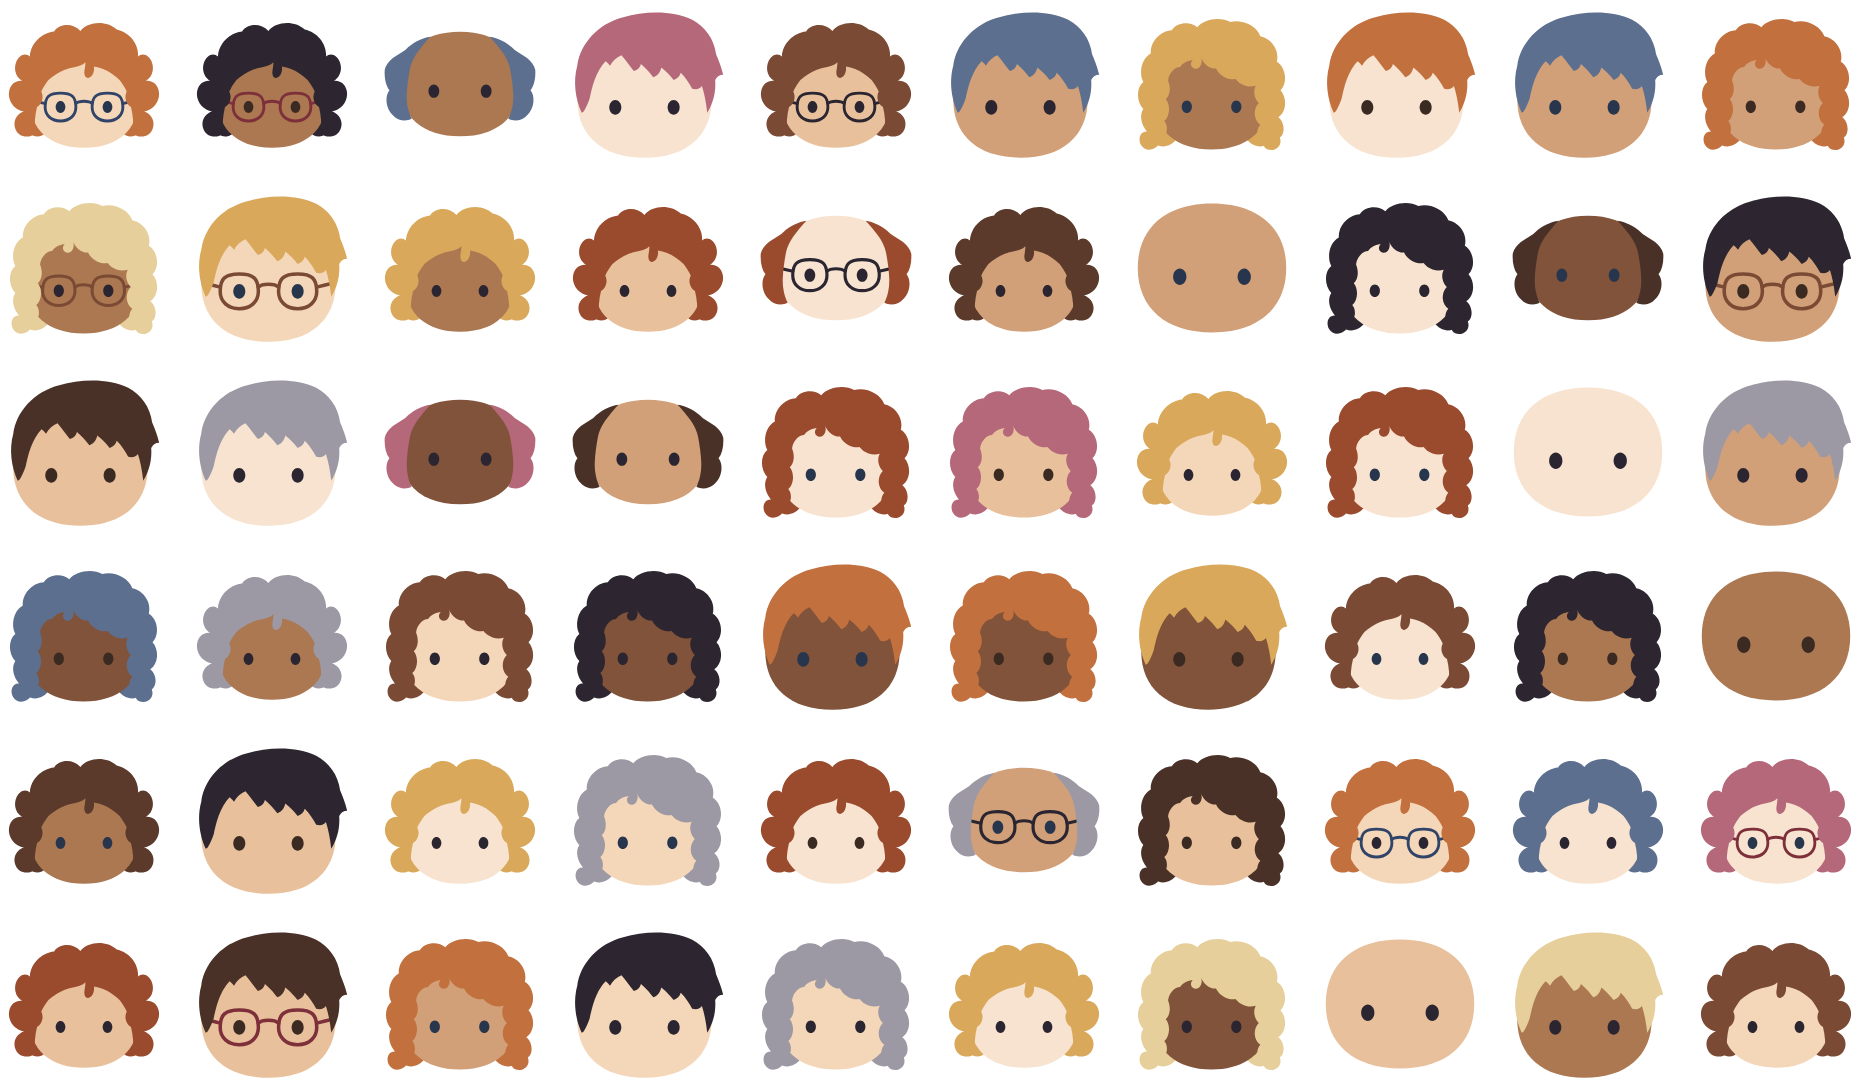
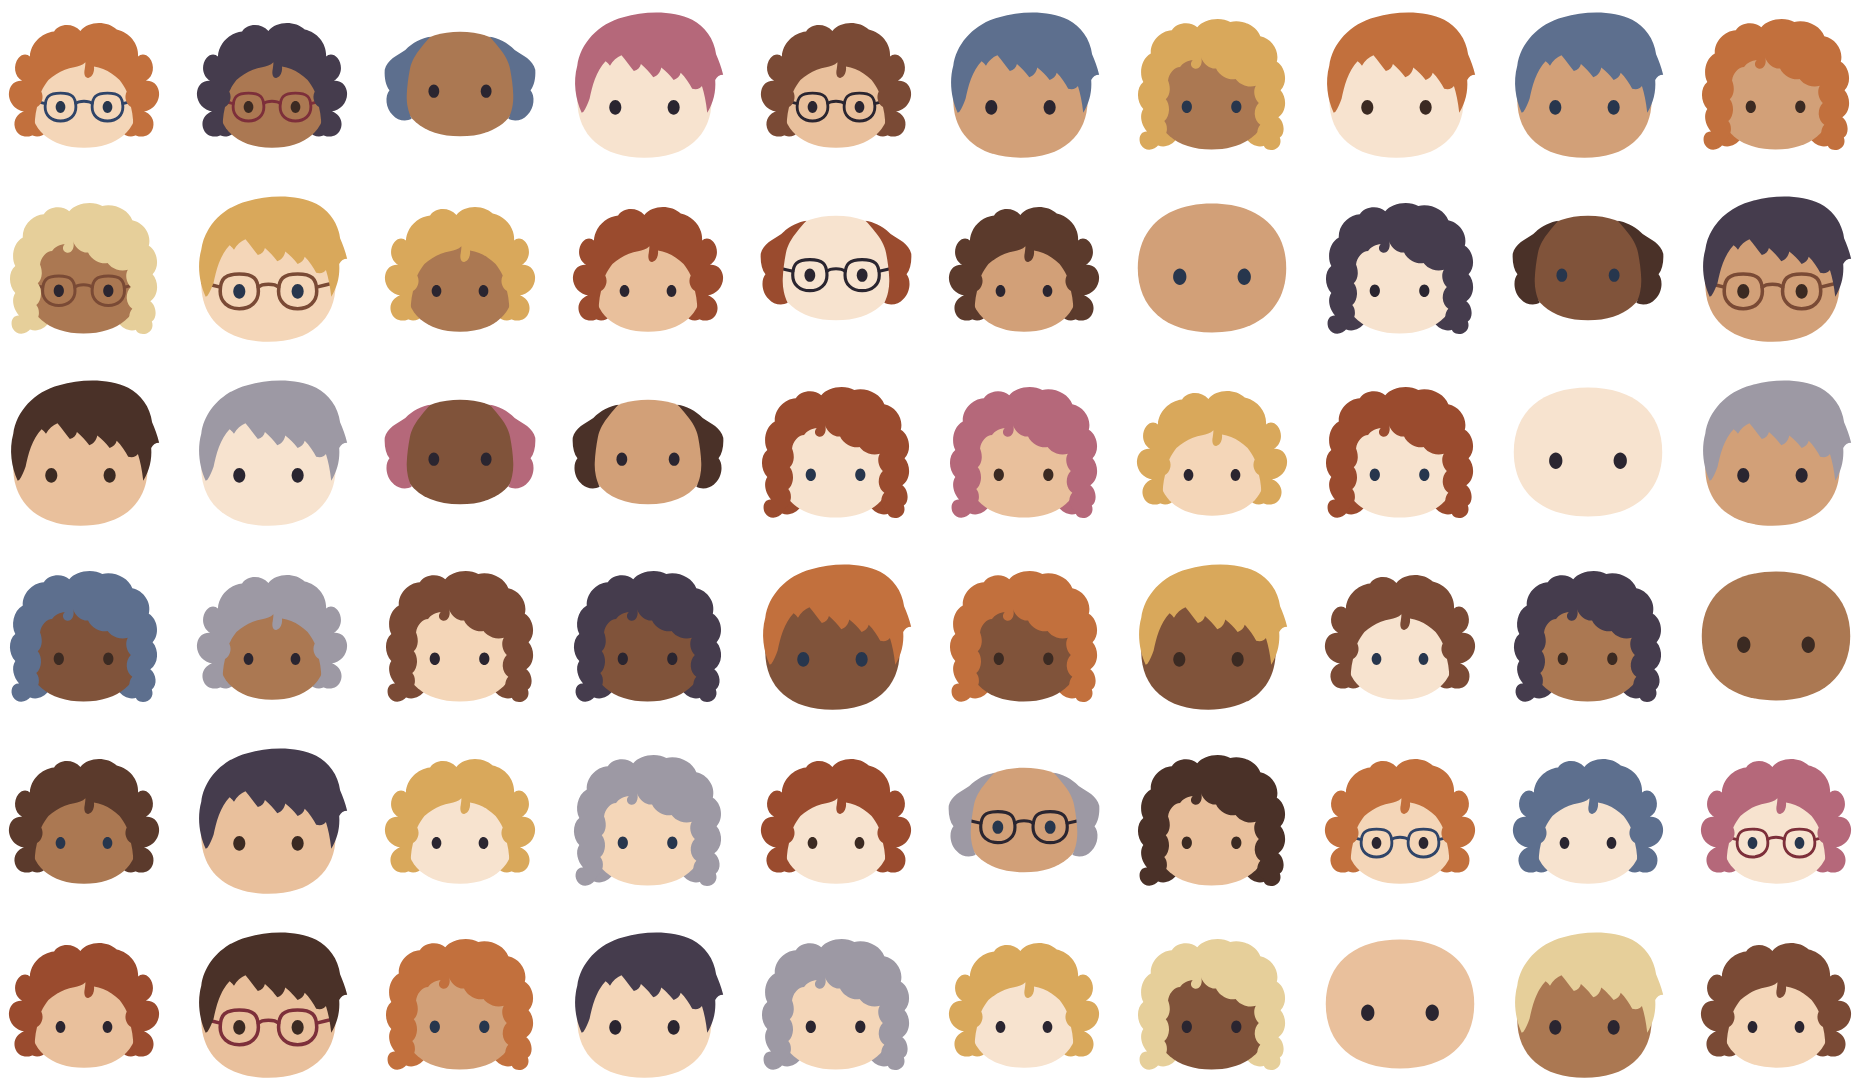
Give seeds a soft black for the darkest hair
The darkest hair a seed drew was close to the ground of a dark page, where its
outline was lost at small sizes. A seed's darkest hair is now a soft black,
which reads as black on a light page and still shows on a dark one.

diff --git a/src/seed.ts b/src/seed.ts
@@ -13,7 +13,8 @@ const CHOICES: Record<Slot, { parts: readonly (string | null)[]; colors: readonl
     colors: [["f7e3cf", "f4d6b8", "e9c09c", "d2a078", "ab7852", "80533a"]],
   },
   eyes: { parts: ["dot"], colors: [["2a2530", "2a2530", "3b2a22", "27364d"]] },
-  // One head in twelve is bald, and one in six is bald over the crown.
+  // One head in twelve is bald, and one in six is bald over the crown. The darkest hair is a soft
+  // black, which still shows on a dark page.
   hair: {
     parts: [
       ...["waves", "waves", "waves", "mane", "mane", "mane"],
@@ -21,7 +22,7 @@ const CHOICES: Record<Slot, { parts: readonly (string | null)[]; colors: readonl
     ],
     colors: [
       [
-        ...["2d2630", "4a3128", "5b3a2c", "7a4a35", "9a4b2e", "c2703d"],
+        ...["453c4d", "4a3128", "5b3a2c", "7a4a35", "9a4b2e", "c2703d"],
         ...["d9a85b", "e6cf9a", "9d99a4", "5d6f8e", "b5687a"],
       ],
     ],

diff --git a/test/seed.test.ts b/test/seed.test.ts
@@ -9,7 +9,7 @@ test("a seed's avatar is the same on every machine and in every release", () => 
     [
       "v1.round-f4d6b8.dot-2a2530.mane-4a3128",
       "v1.round-d2a078.dot-2a2530.mane-5b3a2c",
-      "v1.round-ab7852.dot-3b2a22.mane-2d2630.specs-7d2f3a",
+      "v1.round-ab7852.dot-3b2a22.mane-453c4d.specs-7d2f3a",
       "v1.round-80533a.dot-2a2530.waves-c2703d.specs-2a2530",
     ],
   );
